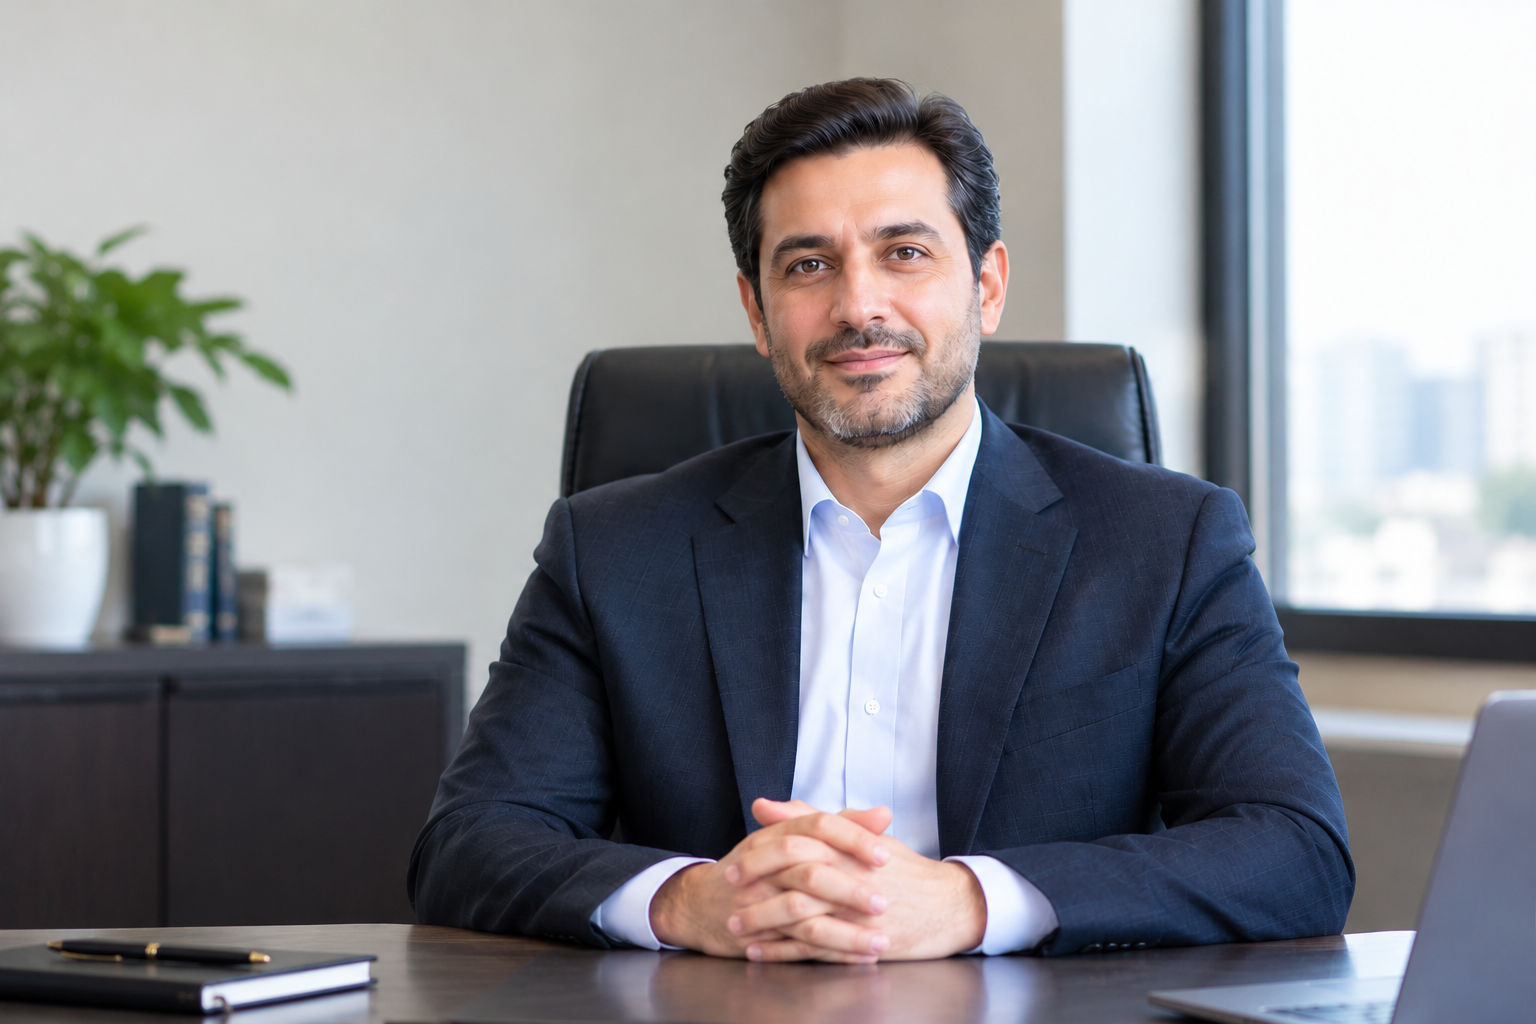
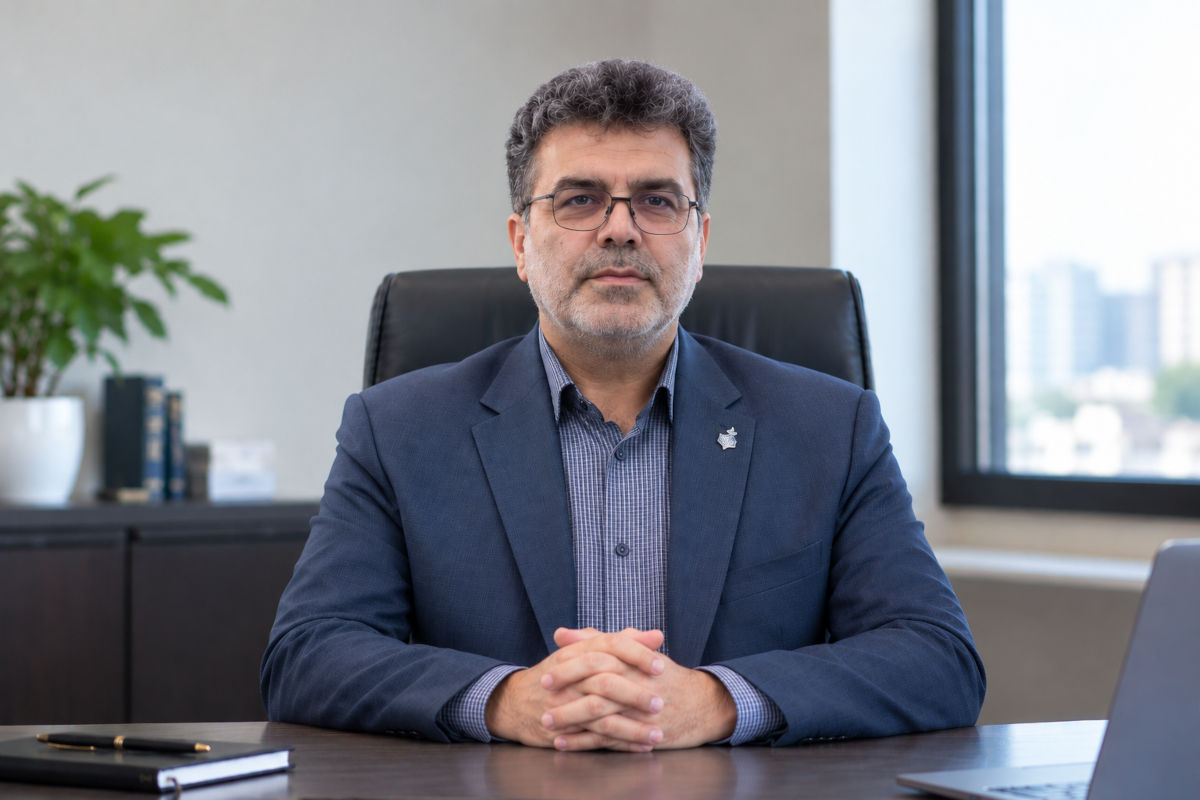
demo 2 10.17.2026

diff --git a/index.html b/index.html
@@ -872,7 +872,7 @@
                         در این مسیر، خدمت به شهروندان و حرکت در جهت توسعه همهجانبه ساوه، مهمترین هدف ماست.
                     </div>
                     <div class="ceo-sign d-flex flex-column align-items-end w-100">
-                        <div class="ceo-name text-center">مهدی نوبهار</div>
+                        <div class="ceo-name text-center">رضا یزدی</div>
                     </div>
                 </div>
             </div>
@@ -901,7 +901,7 @@
                         <div class="city-contact mt-3 d-flex flex-column gap-3">
                             <div class="city-contact-item d-flex align-content-center gap-2">
                                 <i class="bi bi-geo-alt"></i>
-                                <span>ساوه، میدان شهرداری، ساختمان شهرداری</span>
+                                <span>ساوه، میدان دانشجو، بلوار تختی</span>
                             </div>
                             <div class="city-contact-item d-flex align-content-center gap-2">
                                 <i class="bi bi-telephone-inbound-fill"></i>

diff --git a/about.html b/about.html
@@ -259,7 +259,7 @@
                         در این مسیر، خدمت به شهروندان و حرکت در جهت توسعه همهجانبه ساوه، مهمترین هدف ماست.
                     </div>
                     <div class="ceo-sign d-flex flex-column align-items-end w-100">
-                        <div class="ceo-name text-center">مهدی نوبهار</div>
+                        <div class="ceo-name text-center">رضا یزدی</div>
                     </div>
                 </div>
             </div>
